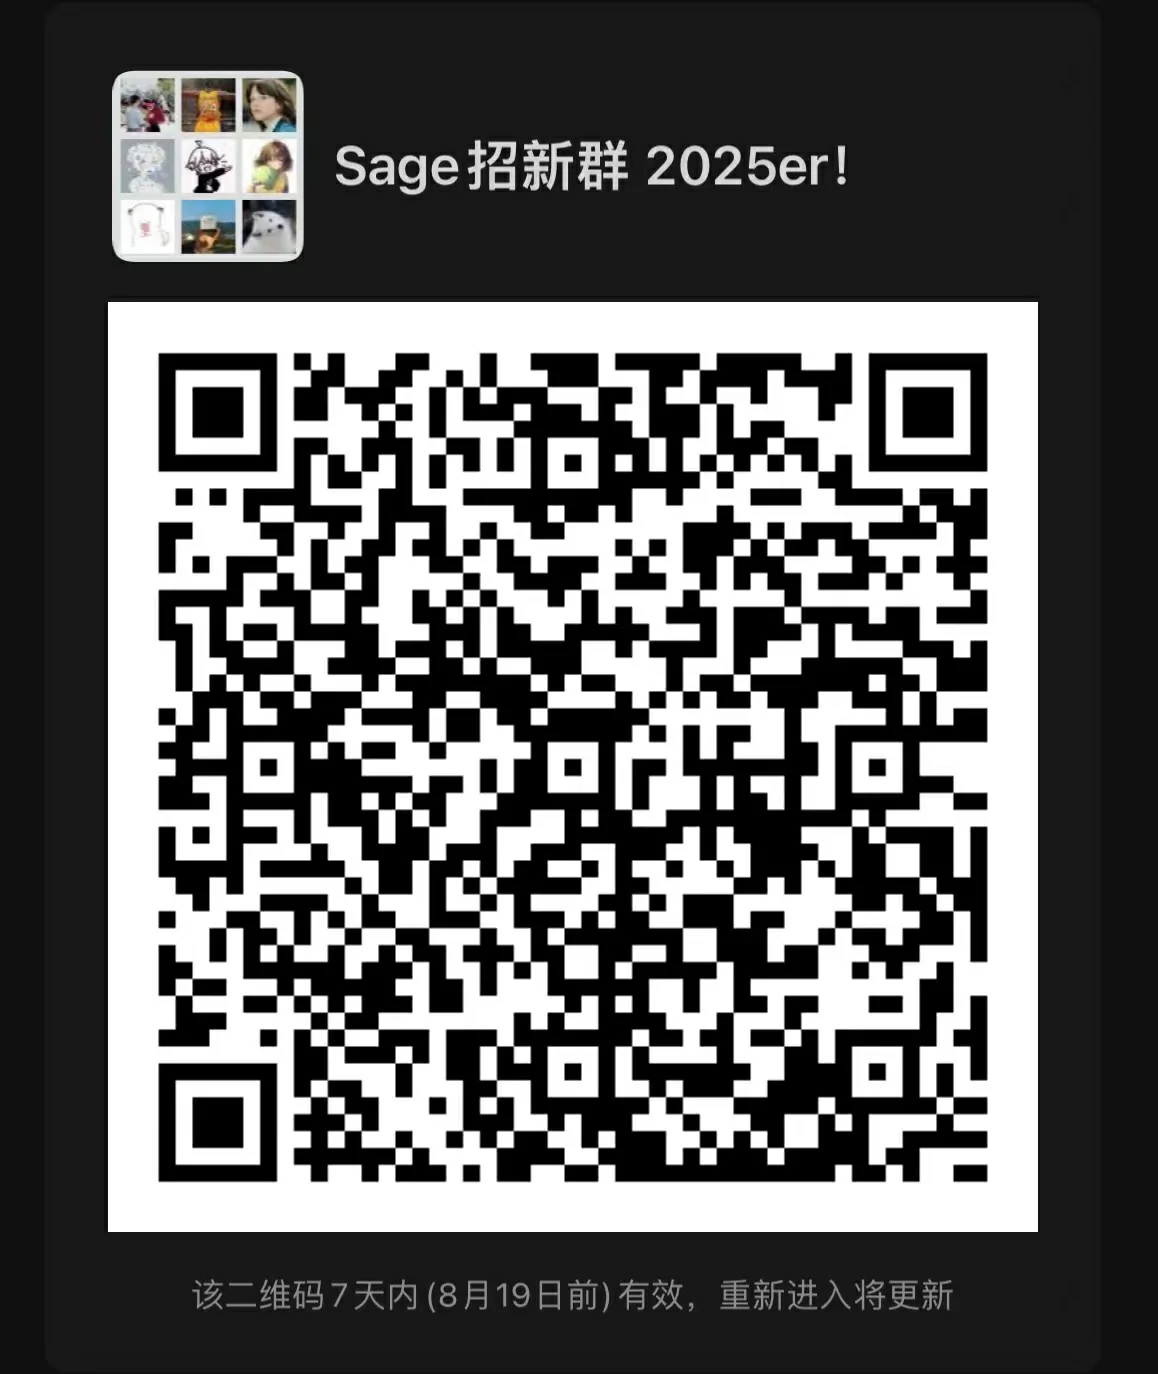
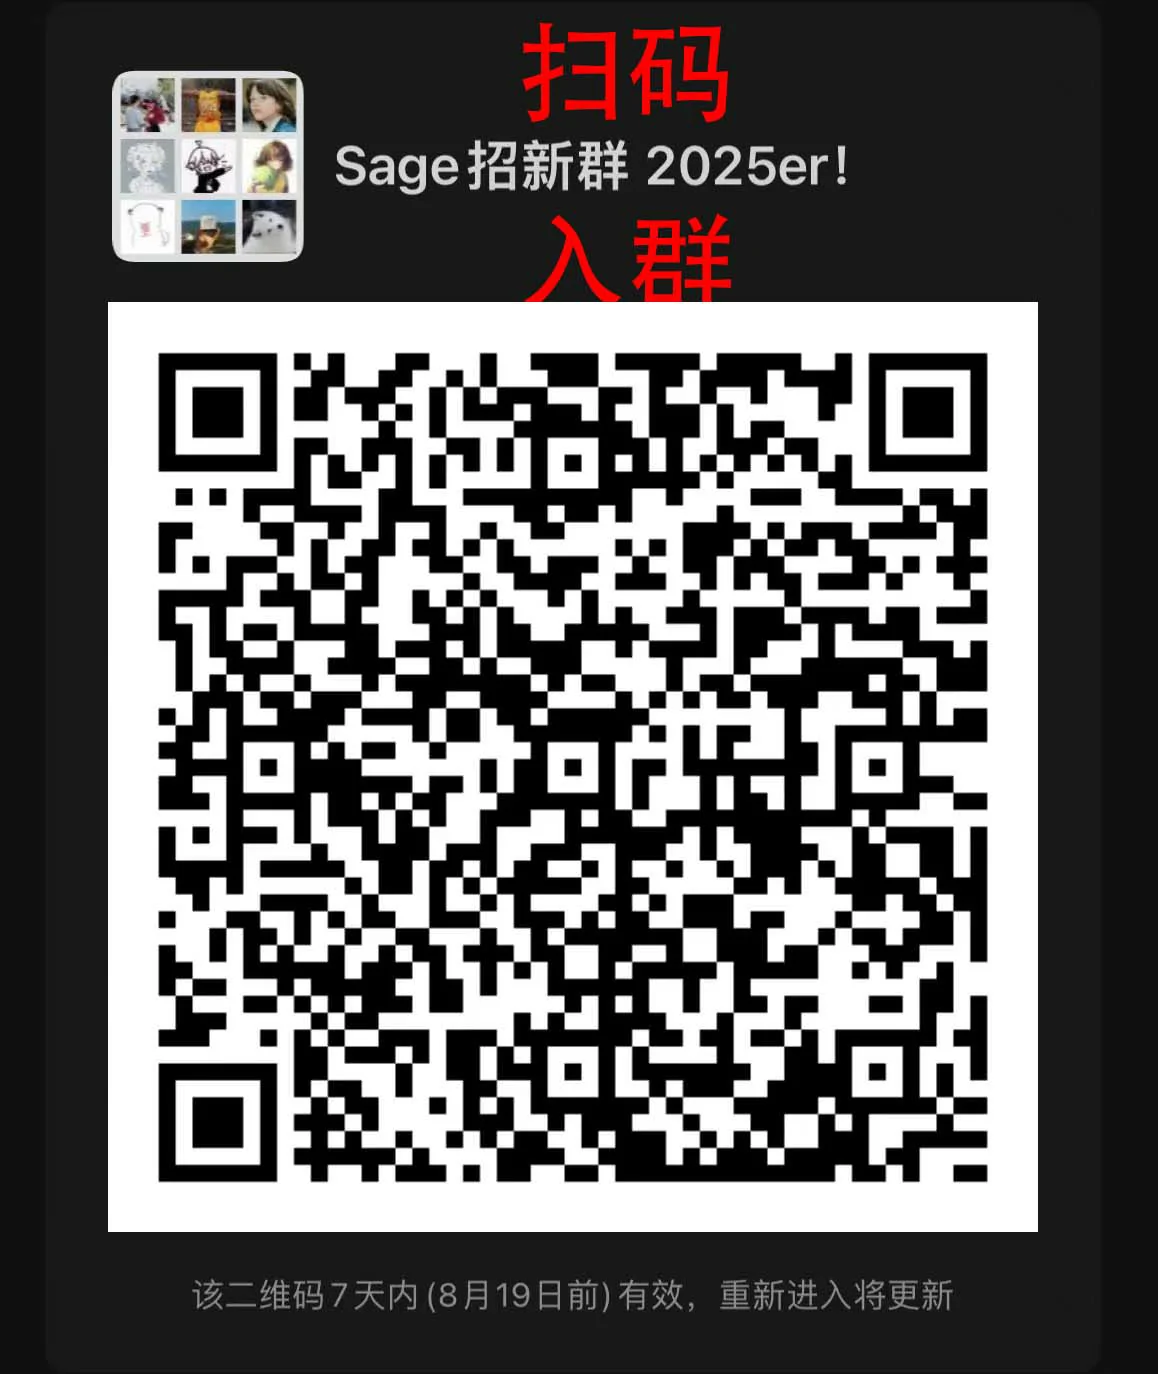
upgrade zhaoxin.webp

Changed region(s): [[0.4352, 0.0, 0.6528, 0.0917], [0.4663, 0.1528, 0.6528, 0.2445]]

diff --git a/index.html b/index.html
@@ -210,17 +210,9 @@
         <!-- 右侧内容栏 -->
         <div class="youQu flex flex1 column mgr8 " style="height:1500px;">
           <!-- 具体板块 -->
-          <div class="flex white mgt8 yinYing" style="height: 300px;background:url(./assets/images/zhaoxinsage.webp) no-repeat;background-size: auto 100%;">
+          <div class="flex white mgt8 yinYing" style="height: 300px;background:url(./assets/images/zhaoxinsage.webp) no-repeat;background-size: contain">
              
-            
-            <div style="position: relative;left: 263px;white-space: pre-line; font-size: 27px;top: -28px;">
-              扫
-              码
-              入
-              微
-              信
-              群
-            </div>
+           
           </div>
           <!-- 问答 -->
           <div

diff --git a/assets/css/style.css b/assets/css/style.css
@@ -13,6 +13,9 @@ body {
 /* * {
         border: 1px solid black;
       } */
+.w-100 {
+  width: 100%;
+}
 .yinYing {
   box-shadow: 0 4px 5px 0 rgba(0, 0, 0, 0.14), 0 1px 10px 0 rgba(0, 0, 0, 0.12),
     0 2px 4px -1px rgba(0, 0, 0, 0.3);
